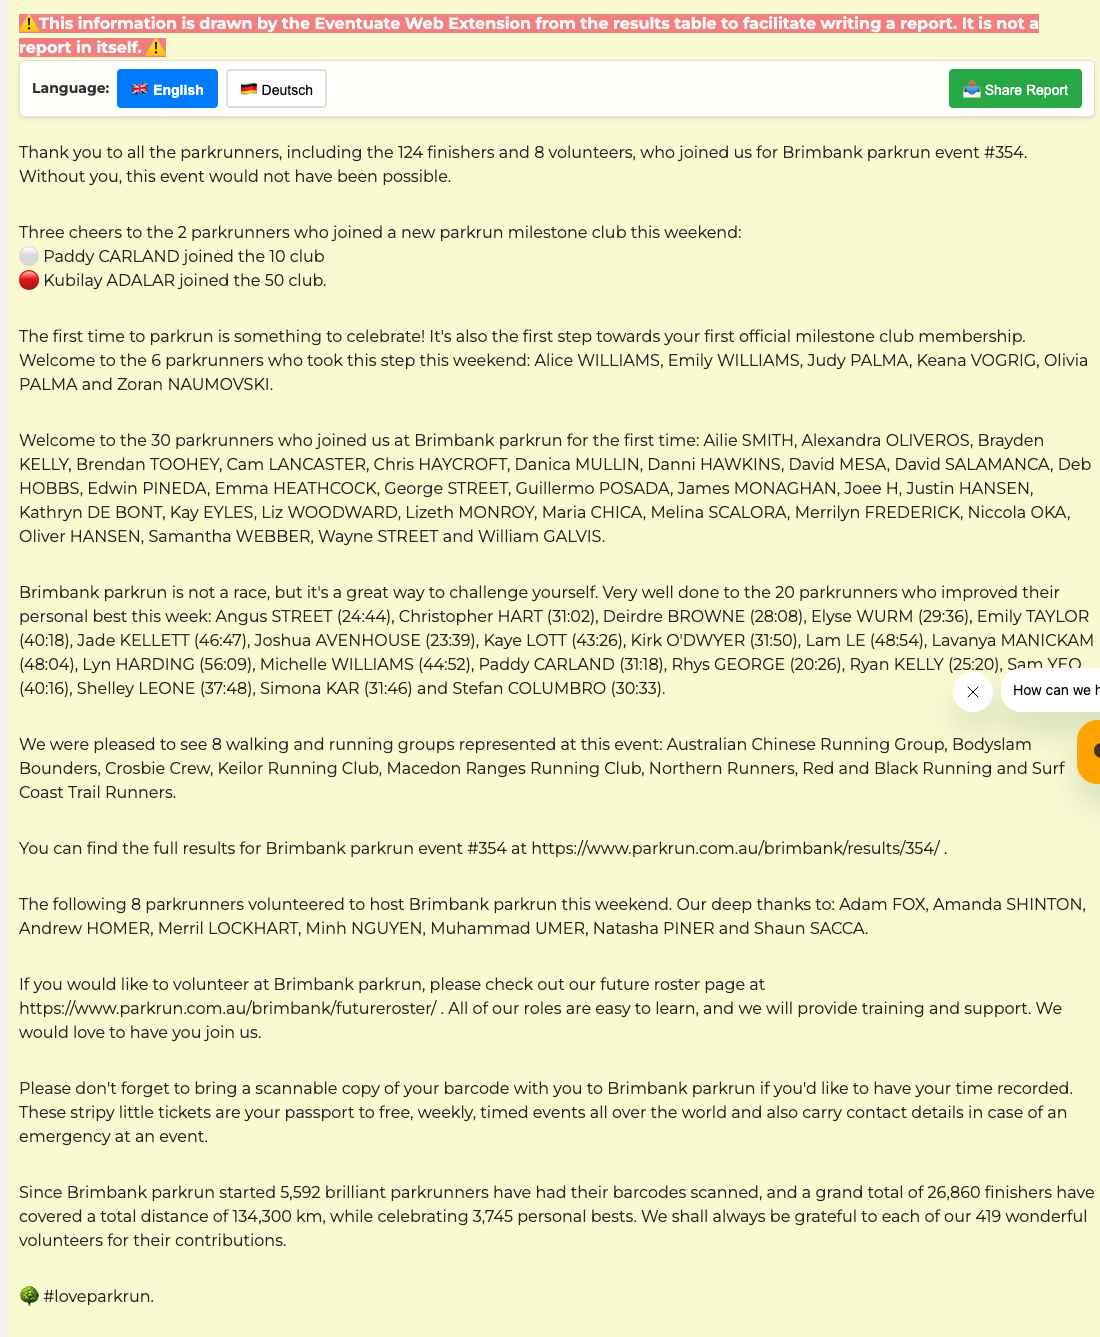
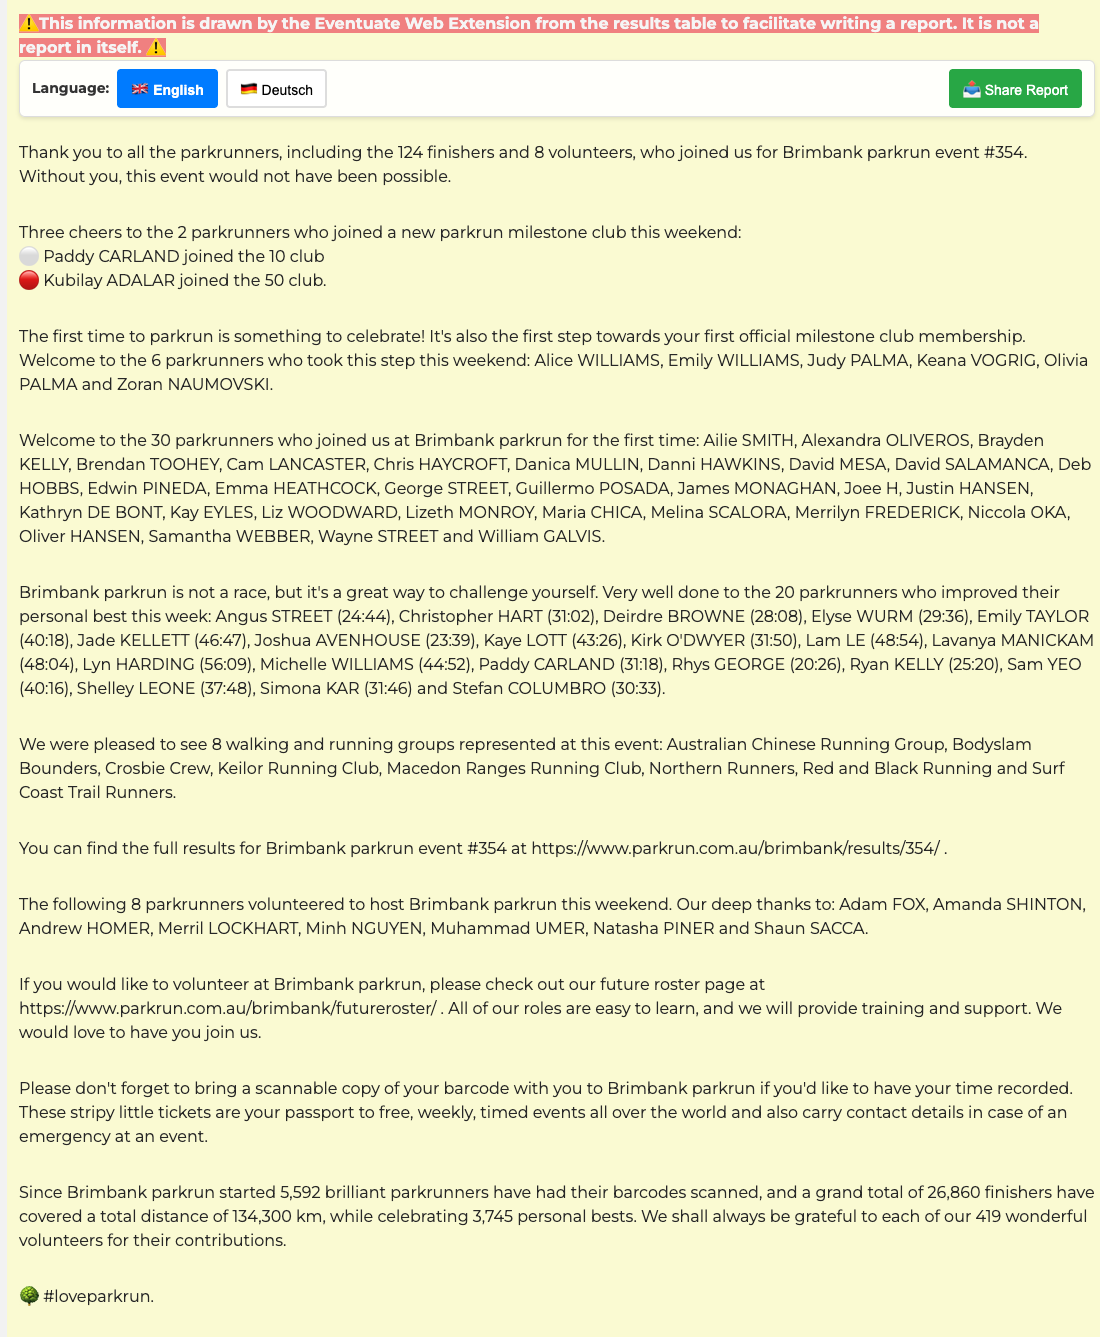
feat: add third-party content cleanup to screenshot generation
- Add comprehensive cleanup of third-party iframes and overlays
- Hide elements with 'close', 'message', 'popup' in src, title, id, or class
- Hide small iframes that appear as overlays (< 400x300px)
- Add error handling for CSS injection and page navigation issues
- Add wait time for page to fully load before injection
- Log count of hidden elements for debugging

This ensures screenshots exclude unwanted third-party content like 'Close message' iframes.

Changed region(s): [[0.8655, 0.4907, 1.0, 0.6133]]

diff --git a/script/generate-screenshots.ts b/script/generate-screenshots.ts
@@ -66,13 +66,20 @@ async function generateScreenshots(): Promise<void> {
       console.log(`🌐 Navigating to ${config.url}...`);
       await page.goto(config.url, { waitUntil: 'networkidle2' });
 
+      // Wait a bit for the page to fully load
+      await new Promise((resolve) => setTimeout(resolve, 2000));
+
       // Inject the CSS styles first
       console.log('🎨 Injecting CSS styles...');
-      const cssContent = fs.readFileSync(
-        path.join(process.cwd(), 'style', 'eventuate.css'),
-        'utf8'
-      );
-      await page.addStyleTag({ content: cssContent });
+      try {
+        const cssContent = fs.readFileSync(
+          path.join(process.cwd(), 'style', 'eventuate.css'),
+          'utf8'
+        );
+        await page.addStyleTag({ content: cssContent });
+      } catch (error) {
+        console.warn('⚠  CSS injection failed, continuing...', error);
+      }
 
       // Inject the bookmarklet script (designed to work in any context)
       console.log('💉 Injecting bookmarklet script...');
@@ -109,6 +116,57 @@ async function generateScreenshots(): Promise<void> {
           setTimeout(resolve, config.waitForTimeout)
         );
       }
+
+      // Hide or remove third-party injected content (like iframes)
+      console.log('🧹 Cleaning up third-party content...');
+      await page.evaluate(() => {
+        // Hide common third-party iframes and overlays
+        const selectorsToHide = [
+          'iframe[src*="close"]',
+          'iframe[src*="message"]',
+          'iframe[src*="popup"]',
+          'iframe[src*="overlay"]',
+          'iframe[src*="Close"]',
+          'iframe[src*="Message"]',
+          'iframe[title*="close"]',
+          'iframe[title*="Close"]',
+          'iframe[title*="message"]',
+          'iframe[title*="Message"]',
+          '.close-message',
+          '.popup-overlay',
+          '.third-party-iframe',
+          '[id*="close"]',
+          '[class*="close"]',
+          '[id*="popup"]',
+          '[class*="popup"]',
+          '[id*="Close"]',
+          '[class*="Close"]',
+          '[id*="Message"]',
+          '[class*="Message"]',
+        ];
+
+        let hiddenCount = 0;
+        selectorsToHide.forEach((selector) => {
+          const elements = document.querySelectorAll(selector);
+          elements.forEach((element) => {
+            (element as HTMLElement).style.display = 'none';
+            hiddenCount++;
+          });
+        });
+
+        // Also hide any iframes that might be positioned over the content
+        const allIframes = document.querySelectorAll('iframe');
+        allIframes.forEach((iframe) => {
+          const rect = iframe.getBoundingClientRect();
+          // Hide iframes that are positioned like overlays (small, positioned absolutely/fixed)
+          if (rect.width < 400 && rect.height < 300) {
+            (iframe as HTMLElement).style.display = 'none';
+            hiddenCount++;
+          }
+        });
+
+        console.log(`Hidden ${hiddenCount} third-party elements`);
+      });
 
       // Take screenshot of just the eventuate div
       const eventuateElement = await page.$('#eventuate');
